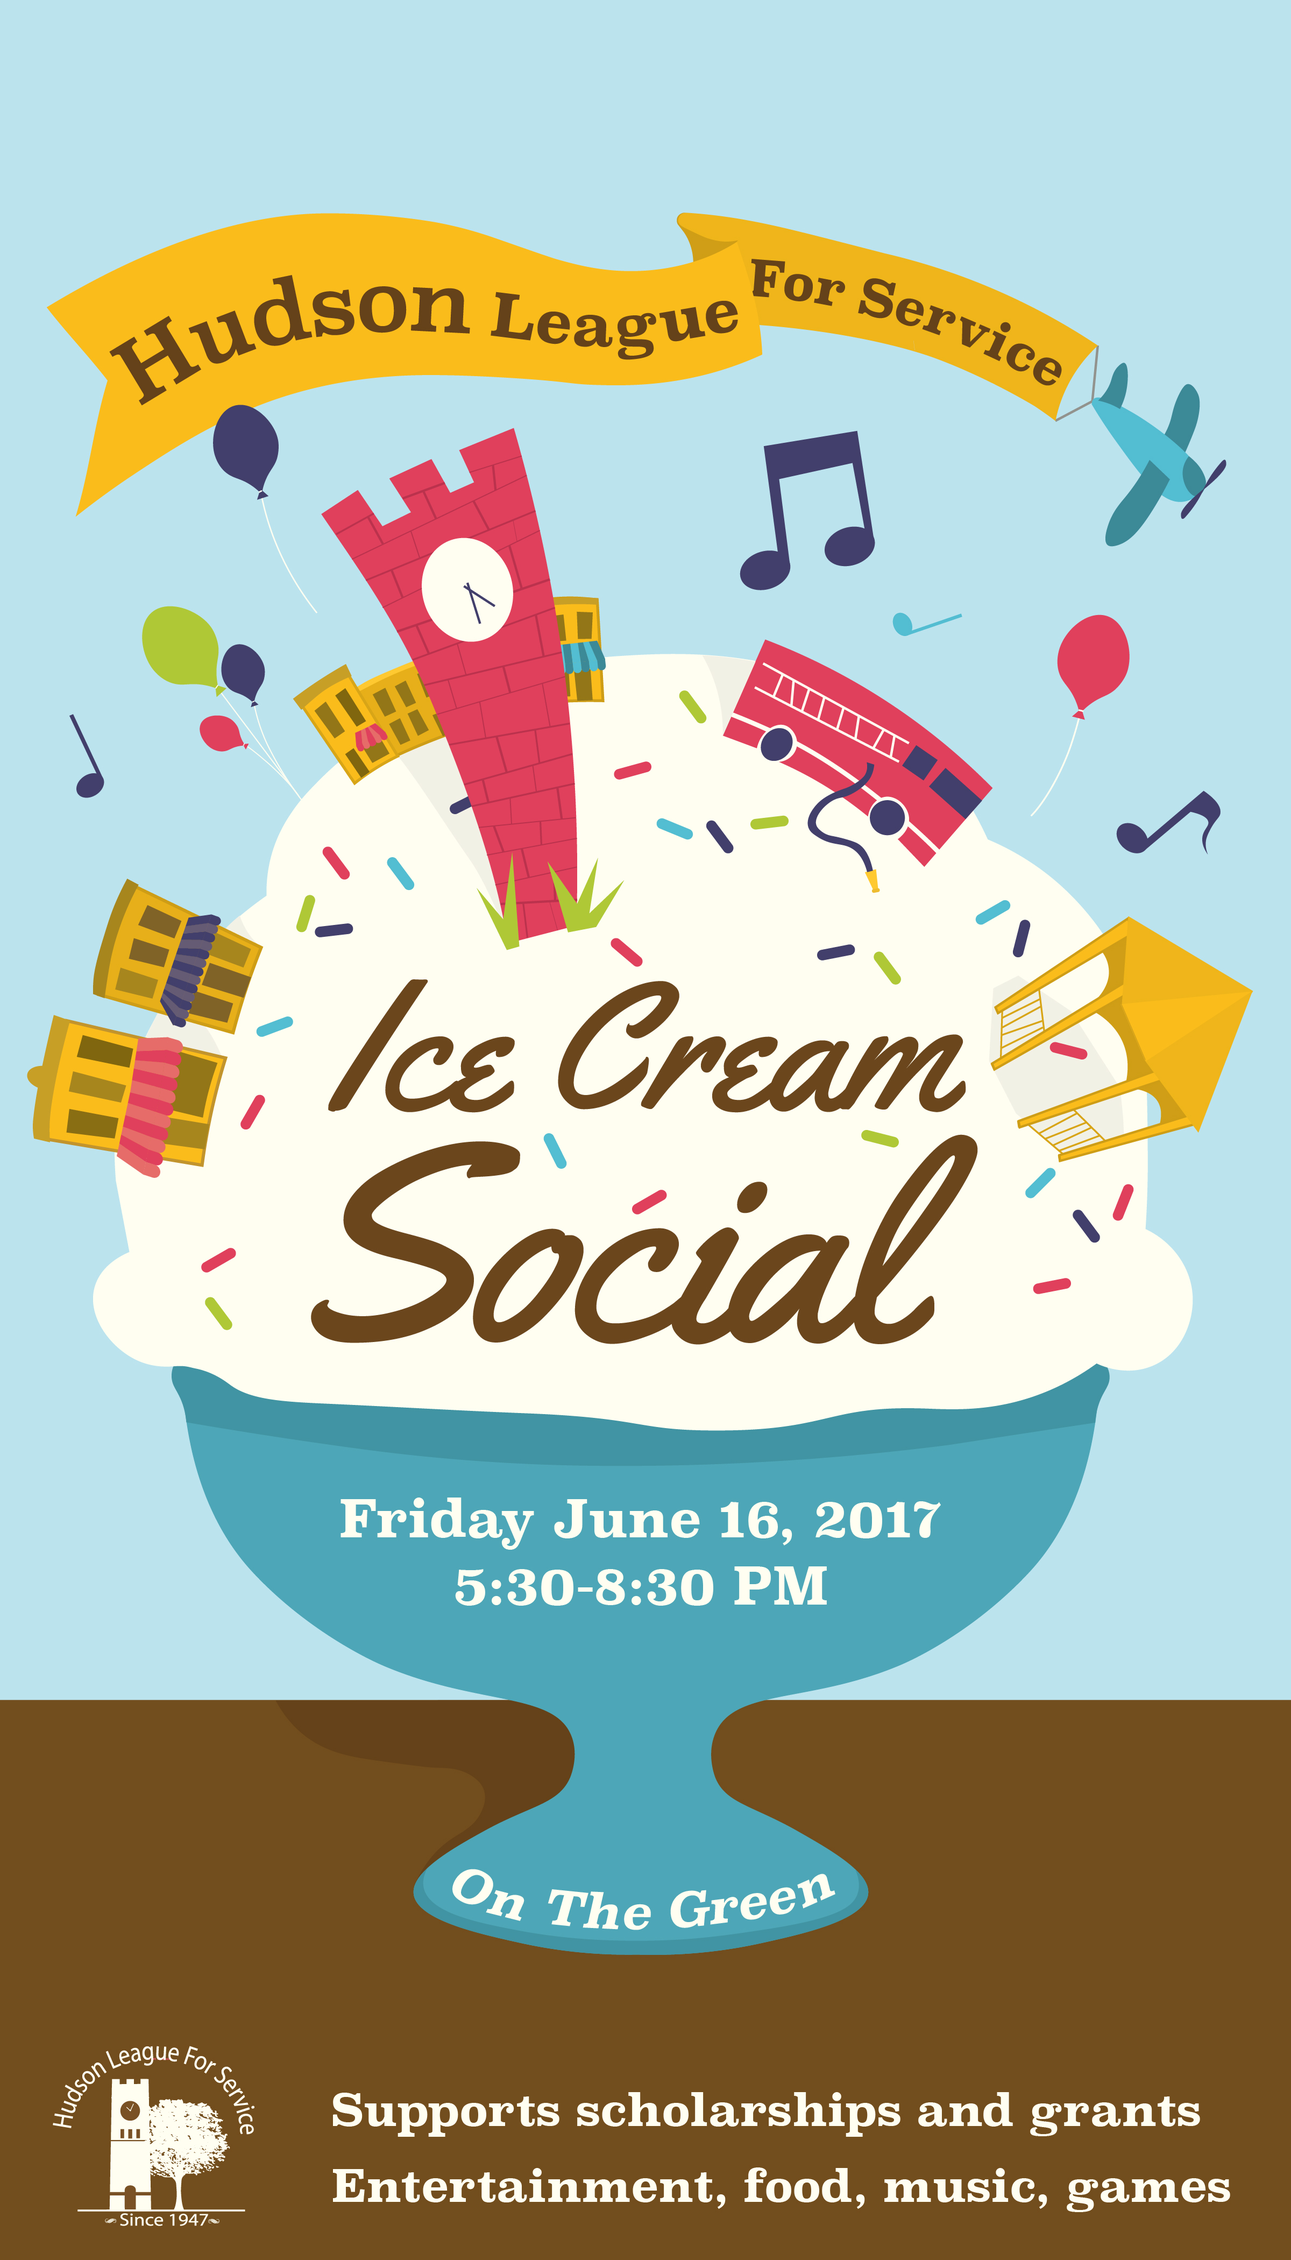
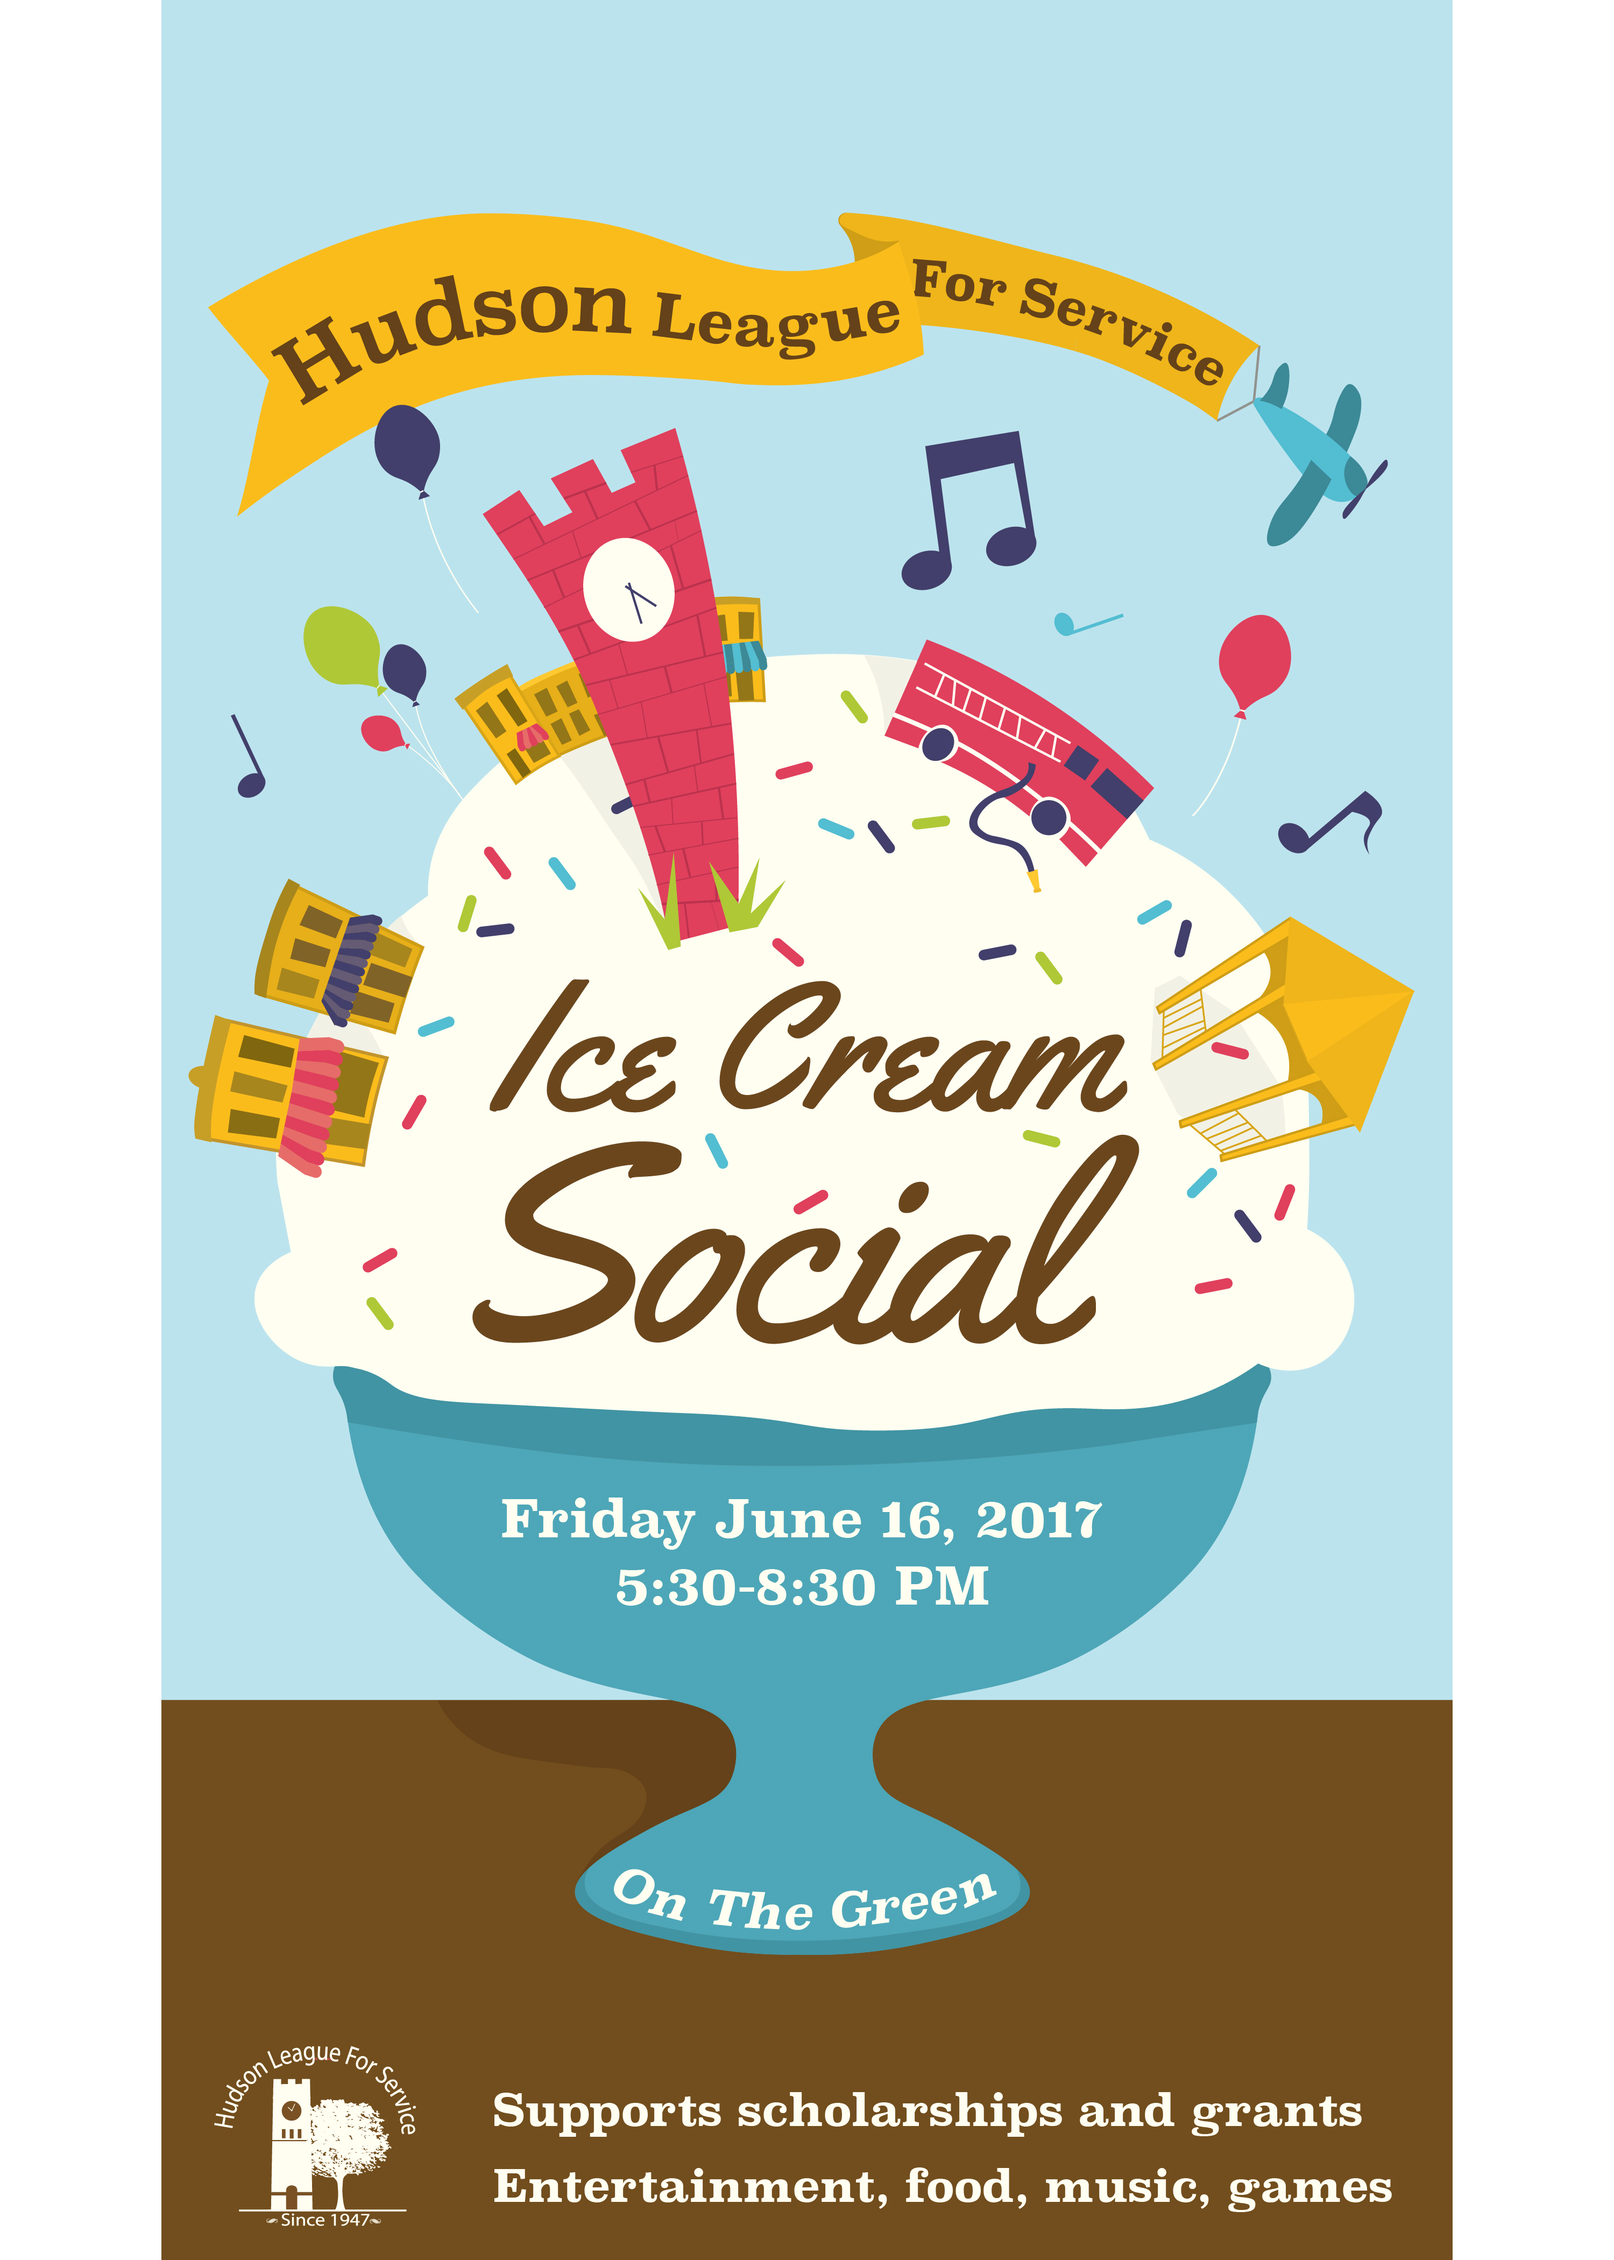
ice cream responsive

diff --git a/icecreamsocial.html b/icecreamsocial.html
@@ -47,7 +47,7 @@
 
     <div class="outsiders" class="icecream">
     <picture>
-     <source srcset="./images/icecream.jpg" media="(min-width: 1000px)">
+     <source srcset="./images/icecream_big.jpg" media="(min-width: 500px)">
      <img src="./images/icecream.jpg" alt="Hudson League for Service Ice Cream Social poster design.">
     </picture>
     </div>
